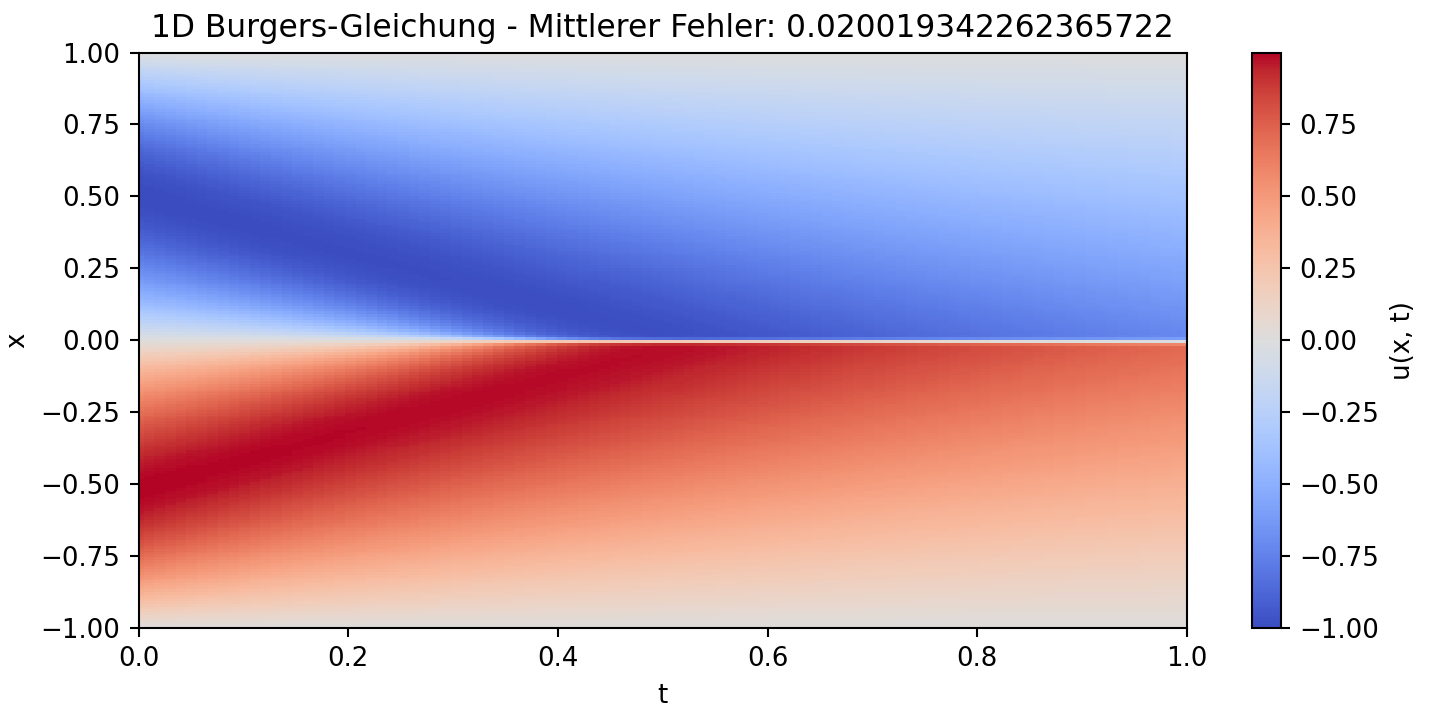
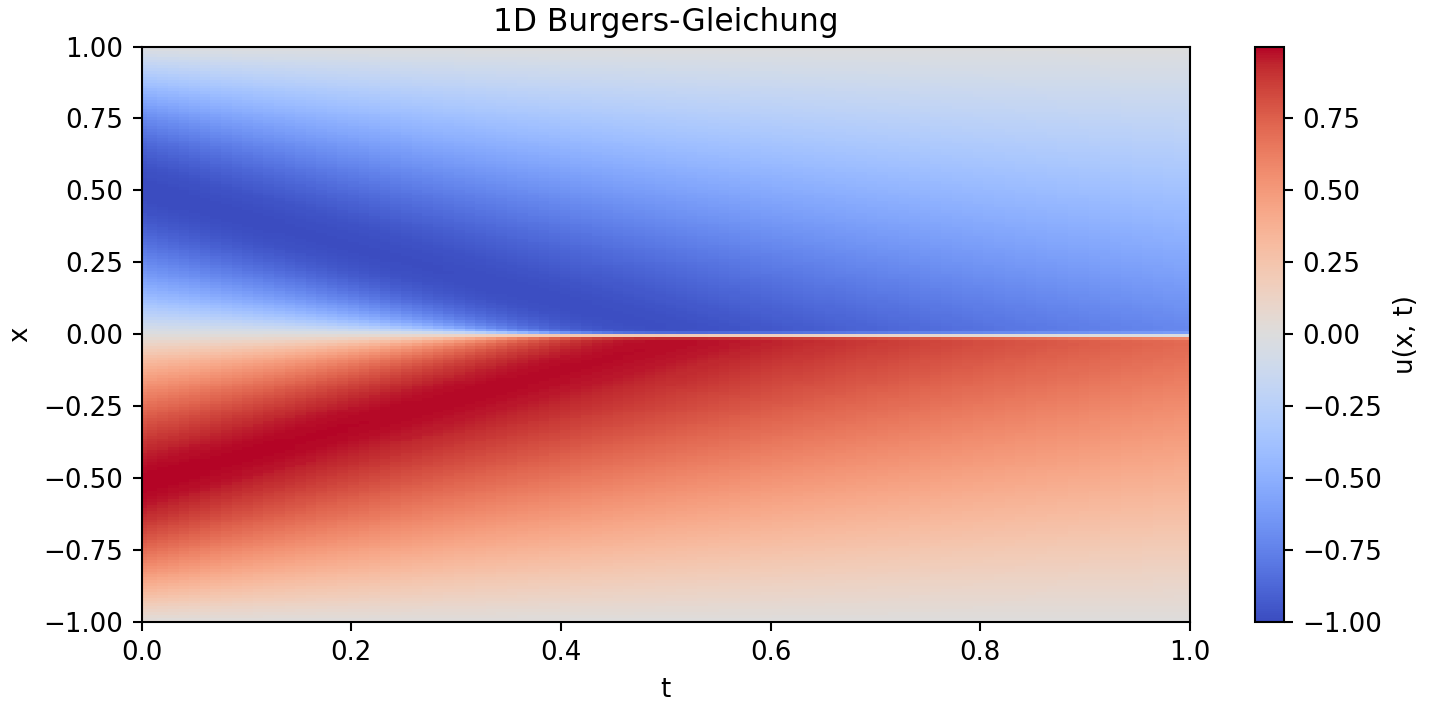
update burgers plot

diff --git a/buch/papers/neuronal/src/burgers_equation/main2.py b/buch/papers/neuronal/src/burgers_equation/main2.py
@@ -169,6 +169,6 @@ plt.xlim(0, 1)
 plt.ylim(-1, 1)
 plt.xlabel("t")
 plt.ylabel("x")
-plt.title(f"1D Burgers-Gleichung - Mittlerer Fehler: {total_loss}")
+plt.title(f"1D Burgers-Gleichung")
 plt.tight_layout()
 plt.show()
